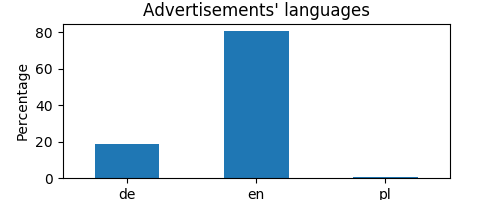
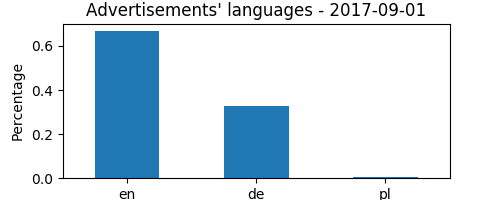
updated the source code and test files

diff --git a/test/test0.py b/test/test0.py
@@ -1,16 +1,18 @@
 #! /usr/bin/env python2.7
 
+
 import matplotlib.pyplot as plt
 from matplotlib.pylab import savefig
+from datetime         import date
 import pandas as pd
 
 import json
 
 from src import DataCleaning
 
-reload(DataCleaning)
+# reload(DataCleaning)
 
-with open("data/data1.json","r") as Input:
+with open("data/data-DS-Aug12.json","r") as Input:
     data = json.load(Input)
 
 df = pd.DataFrame(data)
@@ -23,13 +25,13 @@ fig, ax = plt.subplots(1, figsize=(5,2))
 lang = df.lang.value_counts()
 lang = lang/sum(lang)
 lang.plot(kind="bar", rot=0, subplots=True,
-          label="Advertisements' languages")
+          label="Advertisements' languages - "+str(date.today()))
 plt.ylabel("Percentage")
 plt.xlabel("")
 savefig("output/lang.png")
 
 # Programming skills
-fig, ax = plt.subplots(1, figsize=(5,3))
+fig, ax = plt.subplots(1, figsize=(6,4))
 
 DataCleaning.findKeywords(DataCleaning._skill_prog_dict, df, "description")
 skills_prog = pd.DataFrame(
@@ -38,7 +40,8 @@ skills_prog = pd.DataFrame(
 
 skills_prog.sort_values(inplace=True, ascending=False)
 skills_prog.plot(kind="bar", subplots=True, rot=-45,
-                 label="Programming skills required for data science job (Berlin)")
+                 label="Programming skills for data science job (Berlin) - "+
+                 str(date.today()))
 ax.set_xticklabels(skills_prog.index, ha="left", size="small")
 
 plt.ylabel("Percentage")
@@ -52,7 +55,7 @@ skills_ds = pd.DataFrame(DataCleaning.findKeywords(DataCleaning._skill_ds_dict, 
                                                     "description")).mean()*100
 skills_ds.sort_values(inplace=True, ascending=False)
 skills_ds.plot(kind="bar", subplots=True, rot=-45,
-               label="Data science skills required")
+               label="Data science skills required - "+str(date.today()))
 ax.set_xticklabels(skills_ds.index, ha="left")
 plt.ylabel("Percentage")
 plt.gcf().subplots_adjust(bottom=0.4)

diff --git a/src/glassdoor.py b/src/glassdoor.py
@@ -29,6 +29,7 @@ class GlassDoor(object):
         self.DescriptionContent = "jobDescriptionContent"
 
         self.JobHeader = "empInfo"
+        self.JobSuperHeader = "HeroHeaderModule"
 
         self.companyName_xpath = "//*[@id='HeroHeaderModule']/div[3]/div[2]/div/div[1]"
         
@@ -84,7 +85,7 @@ class GlassDoor(object):
             try:
                 item.click()
                 self.clickAtCorner()
-                delay = 0.75 + random.uniform(0.0,0.25)
+                delay = 0.5 + random.uniform(0.0,0.25)
                 print "Delay:", delay
                 time.sleep(delay)
             except:
@@ -118,7 +119,7 @@ class GlassDoor(object):
             flag = True
 
         try:
-            CompanyName = self.browser.find_element_by_class_name(self.JobHeader)
+            CompanyName = self.browser.find_element_by_id(self.JobSuperHeader)
             
             CompanyName = CompanyName.find_element_by_class_name("empDetailsLink")
             CompanyName = CompanyName.get_attribute("innerHTML")
@@ -128,7 +129,6 @@ class GlassDoor(object):
         except:
             print "Warning in itemJob.CompanyName"
             CompanyName = None
-
         if flag==False:
             return Job(CompanyName, JobTitle, Description)
             

diff --git a/src/DataCleaning.py b/src/DataCleaning.py
@@ -26,11 +26,16 @@ _skill_prog_dict = {"R-software": ["R,", " R "],
                     "MongoDB": ["mongodb"],
                     "Spark": ["spark"],
                     "Tableau": ["tableau"],
-                    "Sql": ["sql"],
-                    "PHP": ["php"],
+#                    "Sql": ["sql"],
+#                    "PHP": ["php"],
+                    "PowerBI": ["power bi", "powerbi"],
                     "Azure": ["azure"],
                     "PostgreSql": ["postgresql"],
-                    "JSON": ["json"]
+                    "JSON": ["json"],
+                    "Bokeh": ["bokeh"],
+                    "Shiny R-studio": ["shiny"],
+                    "Dash": ["dash"],
+                    "ElasticSearch": ["elastic"]
 }
 
 # educational background

diff --git a/test/test.py b/test/test.py
@@ -2,7 +2,6 @@
 
 from src.glassdoor import GlassDoor
 
-import time
 import json
 
 Job = "Data Scientist"
@@ -20,7 +19,7 @@ for page in range(1,maxPage+1):
 
 # writing the data as JSON file
 jobs = [job.__dict__ for job in glassdoor.jobs]
-with open("data.json", "w") as output:
+with open("data/data-DS-Aug31.json", "w") as output:
     json.dump(jobs, output)
 
 glassdoor.browser.quit()

diff --git a/README.md b/README.md
@@ -11,7 +11,6 @@ text to extract features, such as job requirements, are
 challenging. This is a good exercise for an NLP project.
 
 ## packages used
-* `warnings.warn`
 * `selenium.webdriver` (for web scraping)
 * `time`
 * `random`
@@ -20,6 +19,7 @@ challenging. This is a good exercise for an NLP project.
 * `langdetect.detect` (language detection)
 * `matplotlib`
 * `json`
+* `warnings.warn`
 
 ## How to run the code?
 
